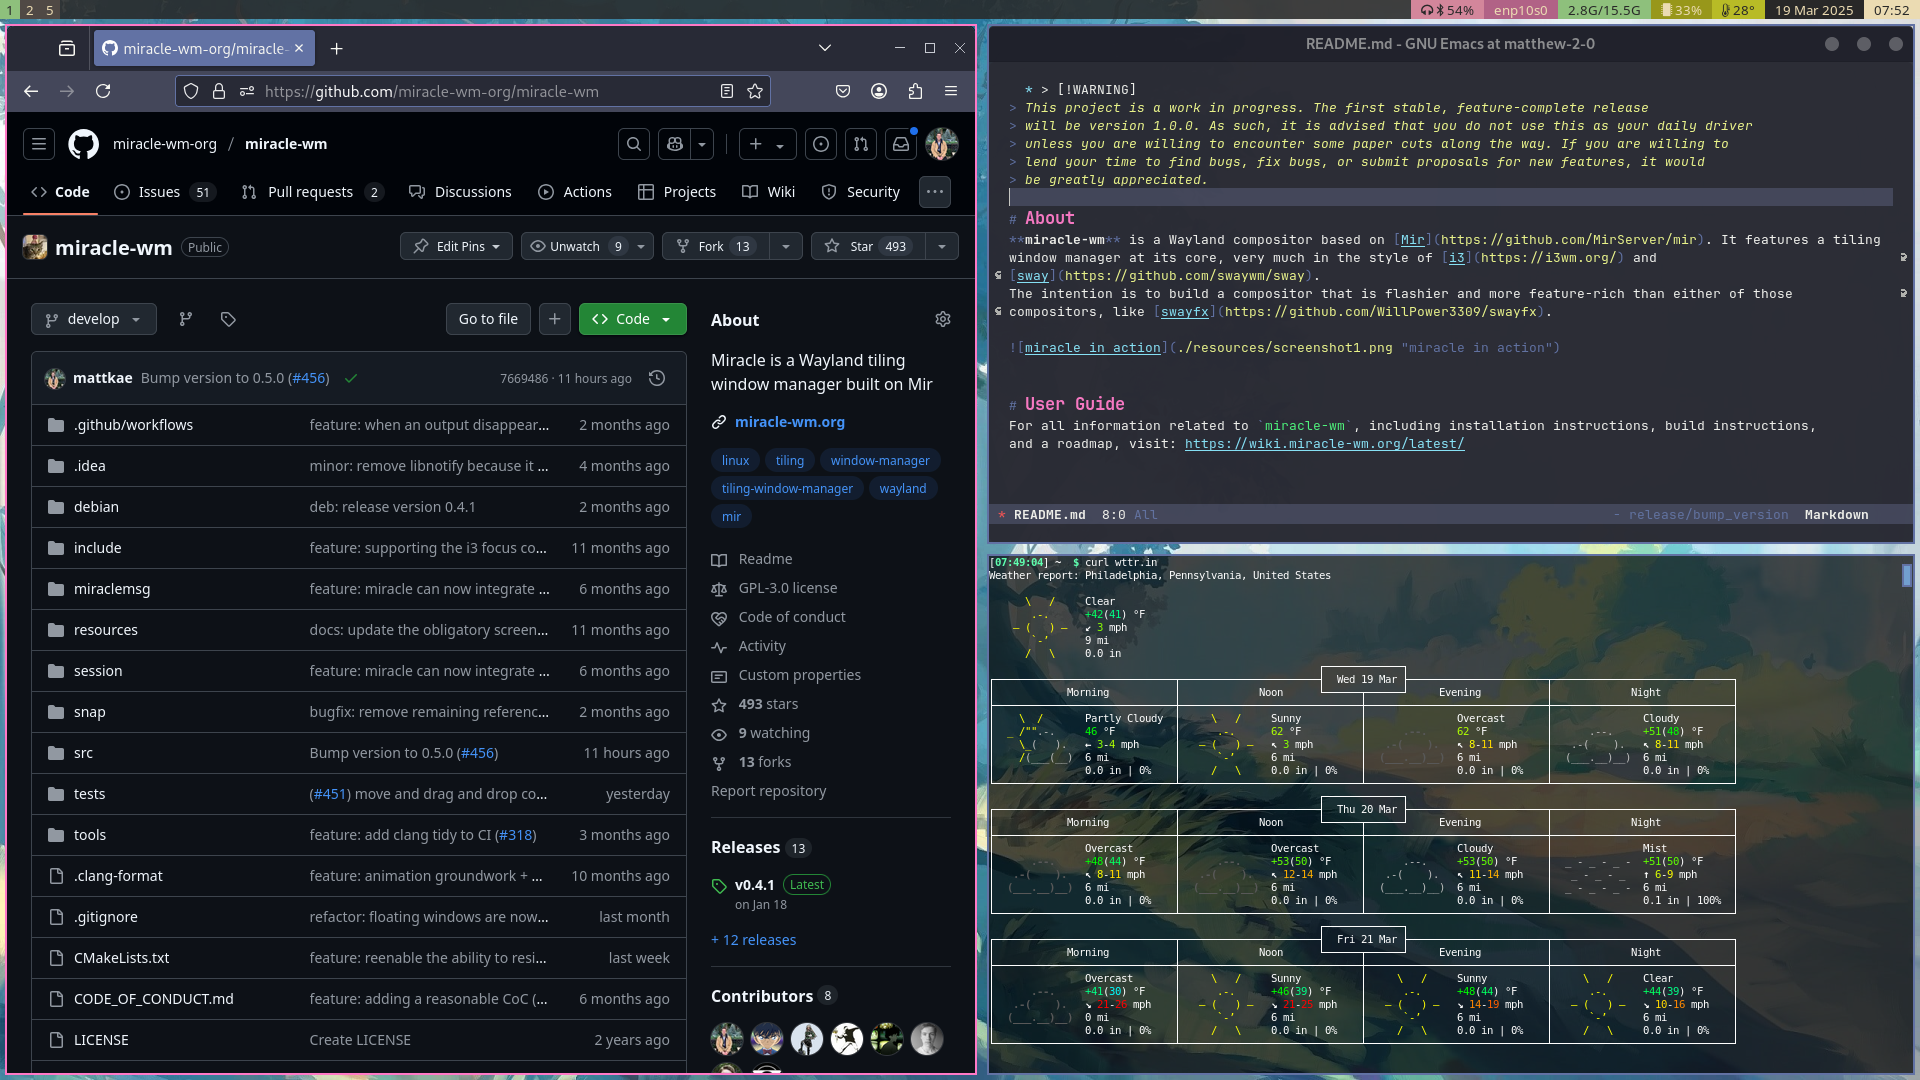
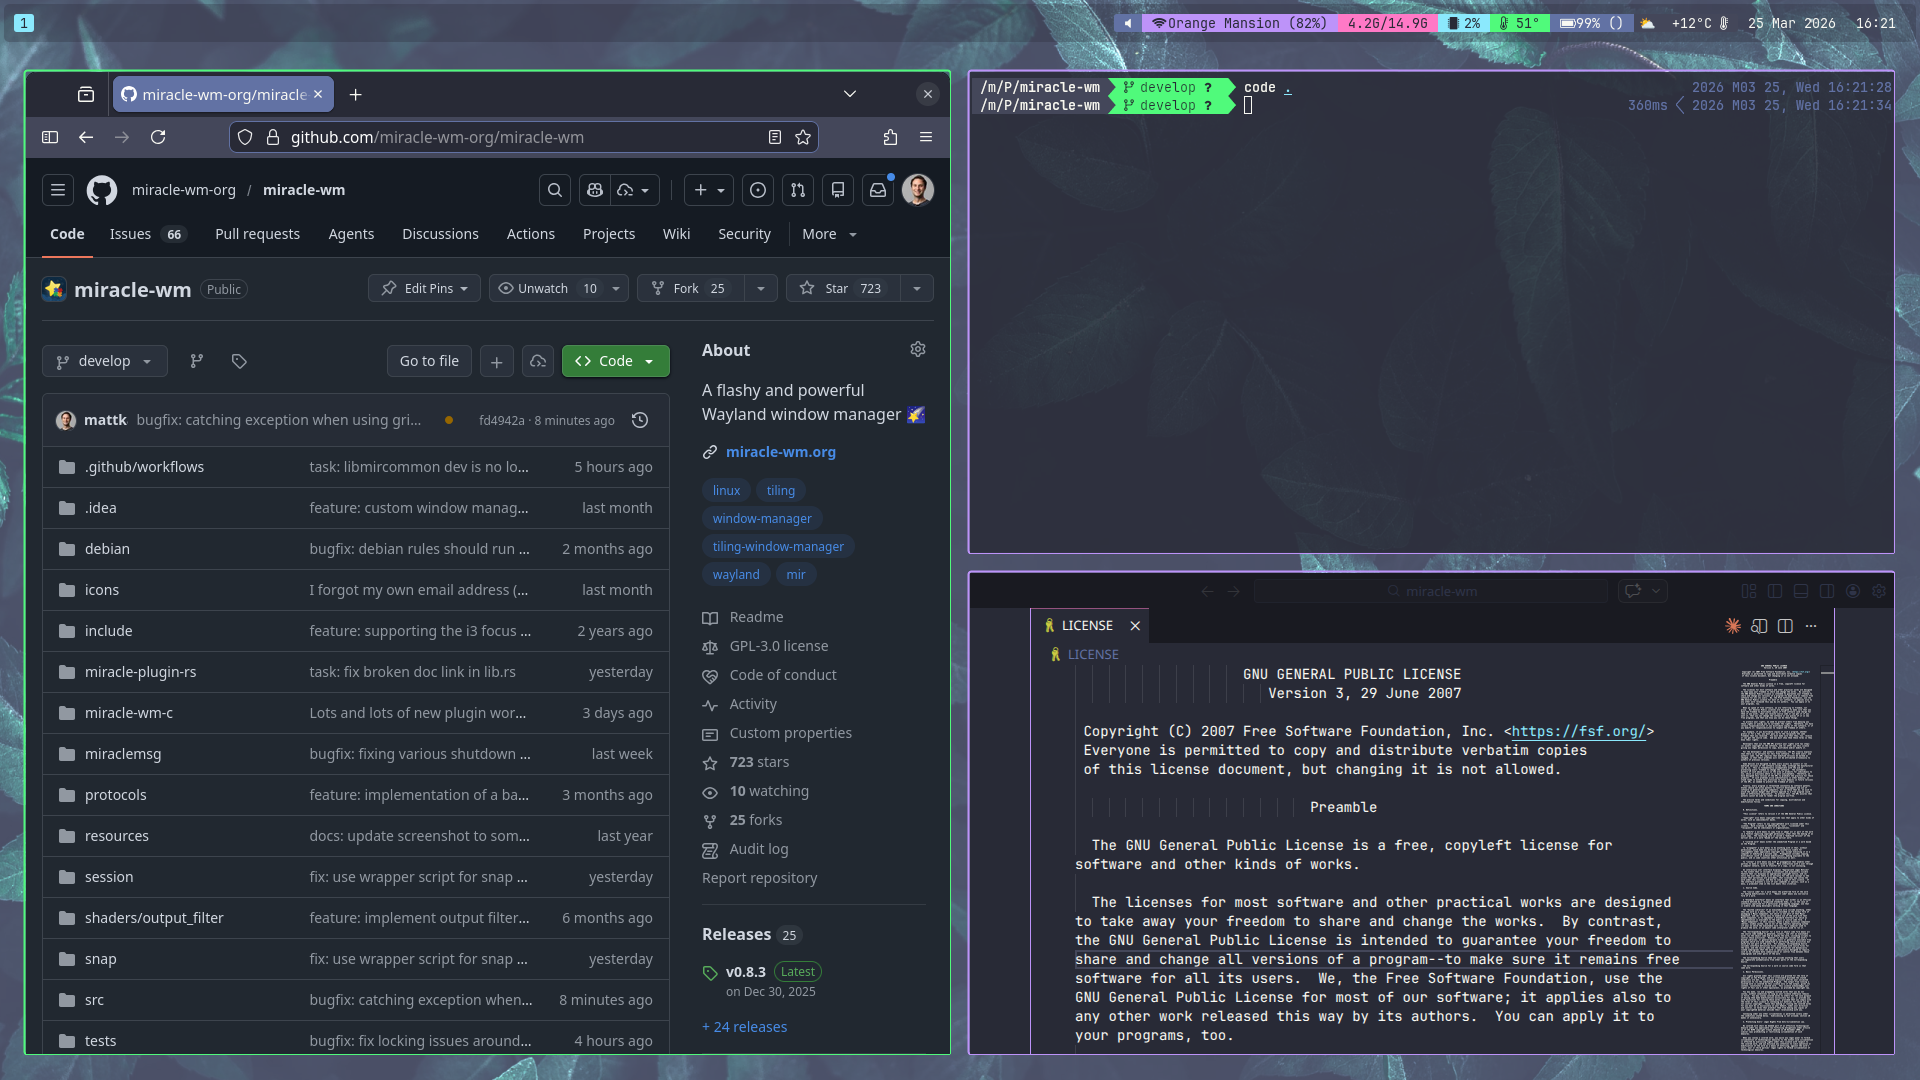
docs: update readme

diff --git a/README.md b/README.md
@@ -1,13 +1,6 @@
-> [!WARNING]
-> This project is a work in progress. The first stable, feature-complete release
-> will be version 1.0.0. As such, it is advised that you do not use this as your daily driver
-> unless you are willing to encounter some paper cuts along the way. If you are willing to 
-> lend your time to find bugs, fix bugs, or submit proposals for new features, it would
-> be greatly appreciated.
-
 <p align="center">
-  <a href="https://wiki.miracle-wm.org/latest/">
-    <img alt="Visit Website" src="https://img.shields.io/badge/Visit-Website-blue?style=for-the-badge&logo=google-chrome&logoColor=white"/>
+  <a href="https://miracle-wm.org/">
+    <img alt="Website" src="https://img.shields.io/badge/Visit-Website-blue?style=for-the-badge&logo=google-chrome&logoColor=white"/>
   </a>
   &nbsp;
   <a href="https://matrix.to/#/#miracle-wm:matrix.org">
@@ -15,13 +8,11 @@
   </a>
 </p>
 
-**miracle-wm** is a Wayland compositor based on [Mir](https://github.com/MirServer/mir). It features a tiling
-window manager at its core, very much in the style of [i3](https://i3wm.org/) and [sway](https://github.com/swaywm/sway).
-The intention is to build a compositor that is flashier and more feature-rich than either of those compositors, like [swayfx](https://github.com/WillPower3309/swayfx).
+**miracle-wm** is the hackable, stylish, and modern Wayland compositor based on
+[Mir](https://github.com/MirServer/mir). It is a manual tiling window manager at its core, 
+but it can do so much more than that with the help of its rich plugin system. 
 
 ![miracle in action](./resources/screenshot1.png "miracle in action")
 
-
-# User Guide
-For all information related to `miracle-wm`, including installation instructions, build instructions,
+For installation instructions, build instructions,
 and a roadmap, visit: https://wiki.miracle-wm.org/latest/
